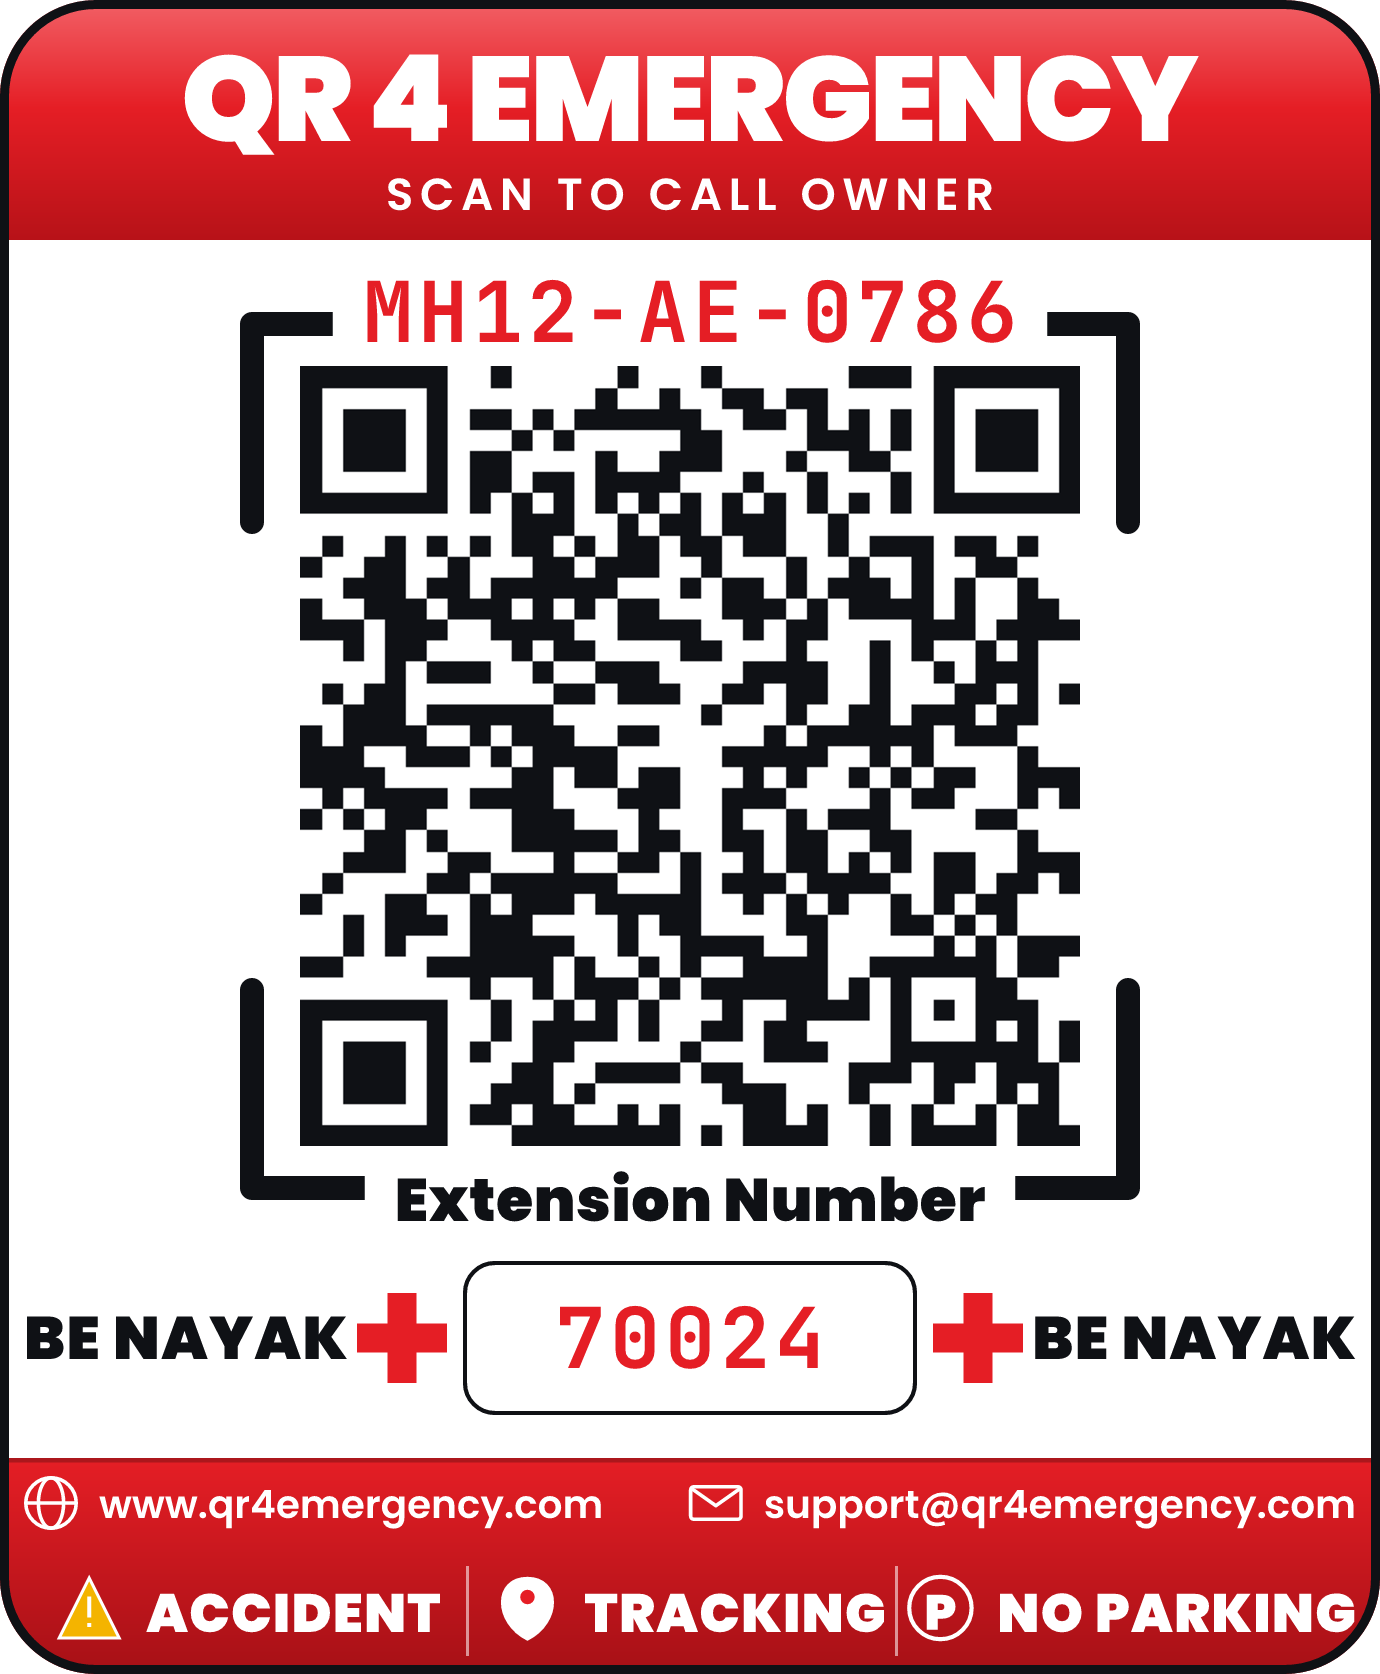
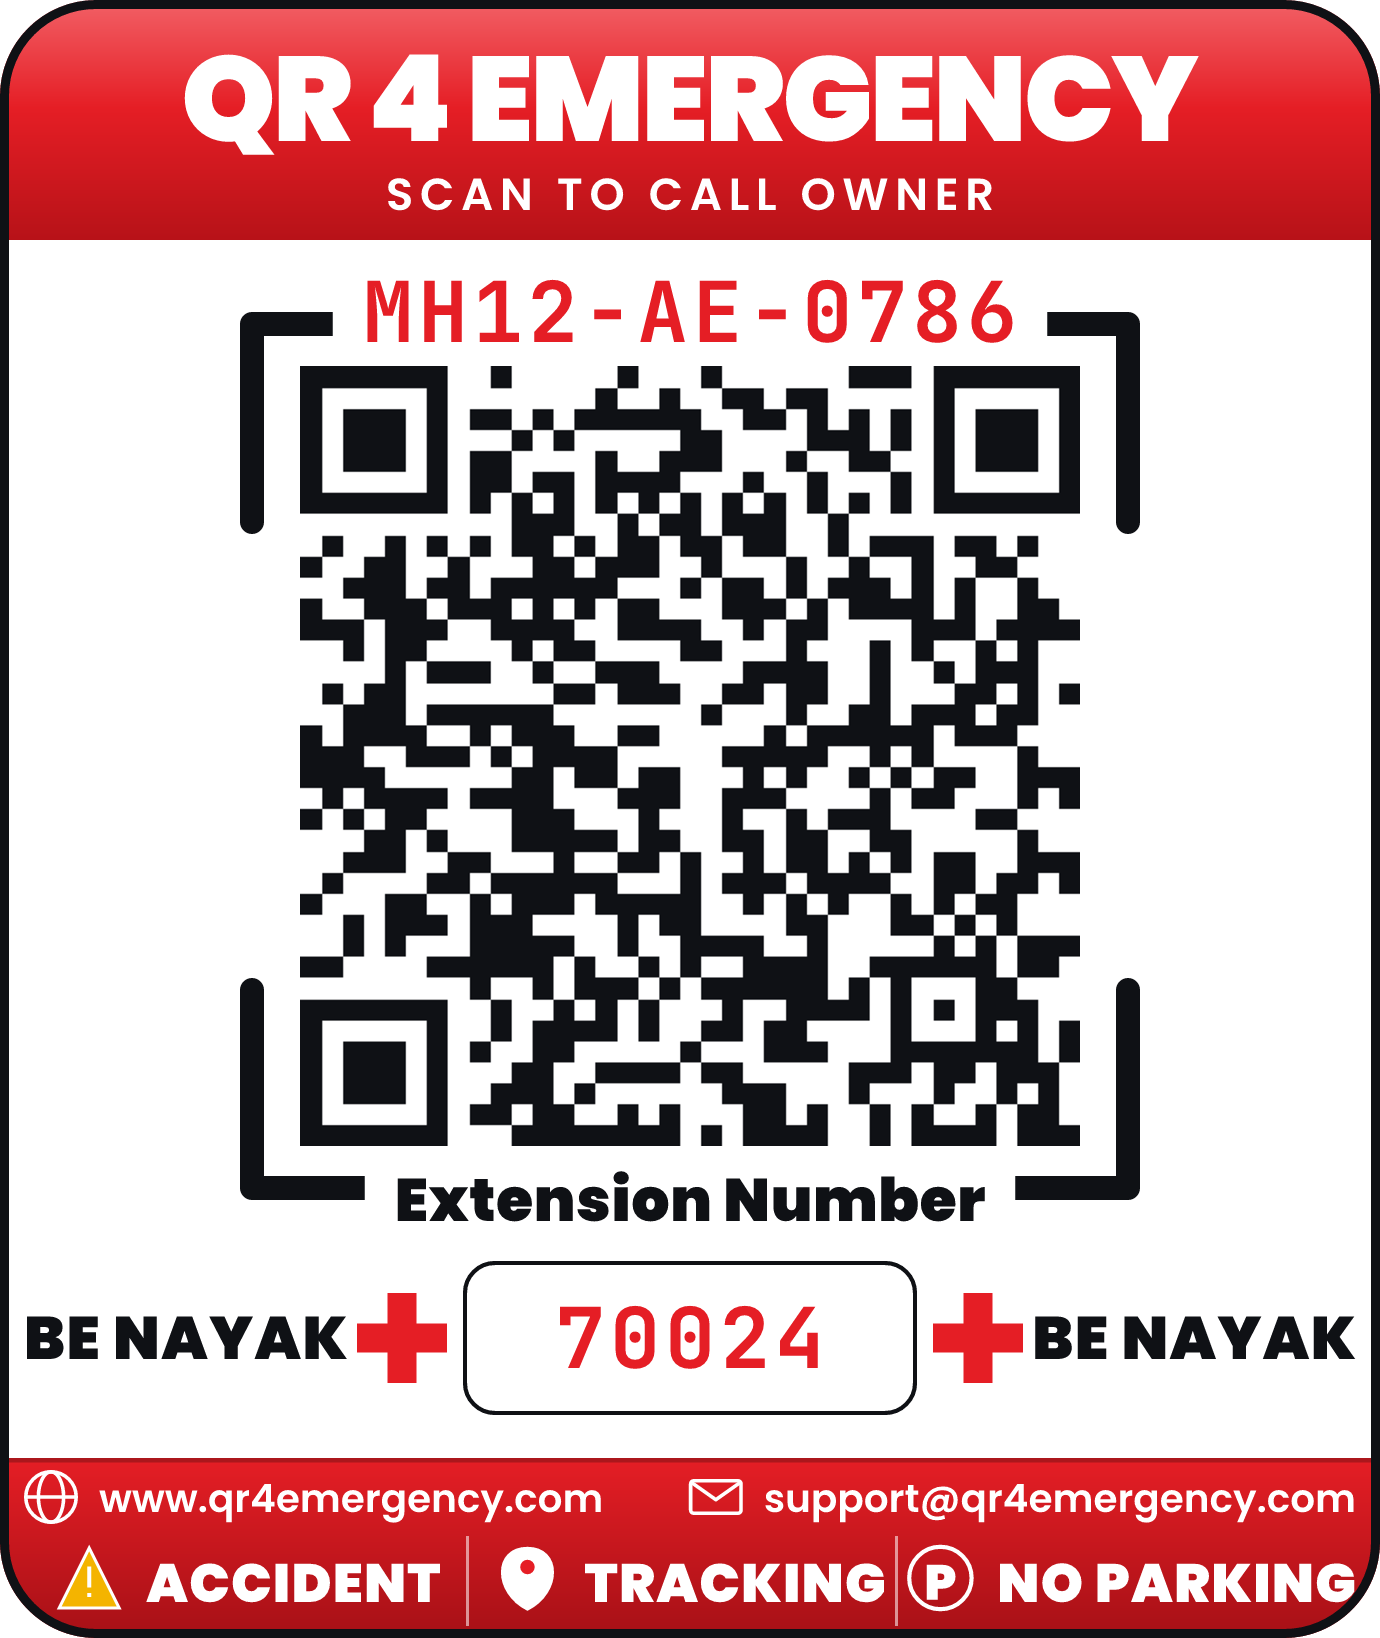
feat: adjust footer height and row positioning in buildStickerSvg for improved layout

diff --git a/src/utils/sticker.js b/src/utils/sticker.js
@@ -275,7 +275,7 @@ function buildStickerSvg({ qrPngB64, digits, showVehicle, vehicleNumber }) {
   const ROW_H = 52;
 
   const FOOTER_TOP = ROW_Y + ROW_H + 14;
-  const FOOTER_H = 72;
+  const FOOTER_H = 60;
   const H = FOOTER_TOP + FOOTER_H;
 
   // Bracket arm length — longer than usual so the arms extend inward
@@ -490,11 +490,12 @@ function buildStickerSvg({ qrPngB64, digits, showVehicle, vehicleNumber }) {
     <rect x="0" y="${FOOTER_TOP}" width="${W}" height="1.5" fill="#000000" opacity="0.25"/>
 
     <!-- Row 1: globe + website | mail + email -->
-    ${footerRow1(FOOTER_TOP + 18)}
+    ${footerRow1(FOOTER_TOP + 16)}
 
     <!-- Row 2: warning + ACCIDENT | pin + TRACKING | P + NO PARKING,
-         separated by thin white vertical dividers -->
-    ${footerRow2(FOOTER_TOP + 54)}
+         separated by thin white vertical dividers. Baseline pulled
+         closer to Row 1 (was +54, now +44) for the tighter footer. -->
+    ${footerRow2(FOOTER_TOP + 44)}
   </g>
 
   <!-- ── Outer black border ring ──────────────────────────────
